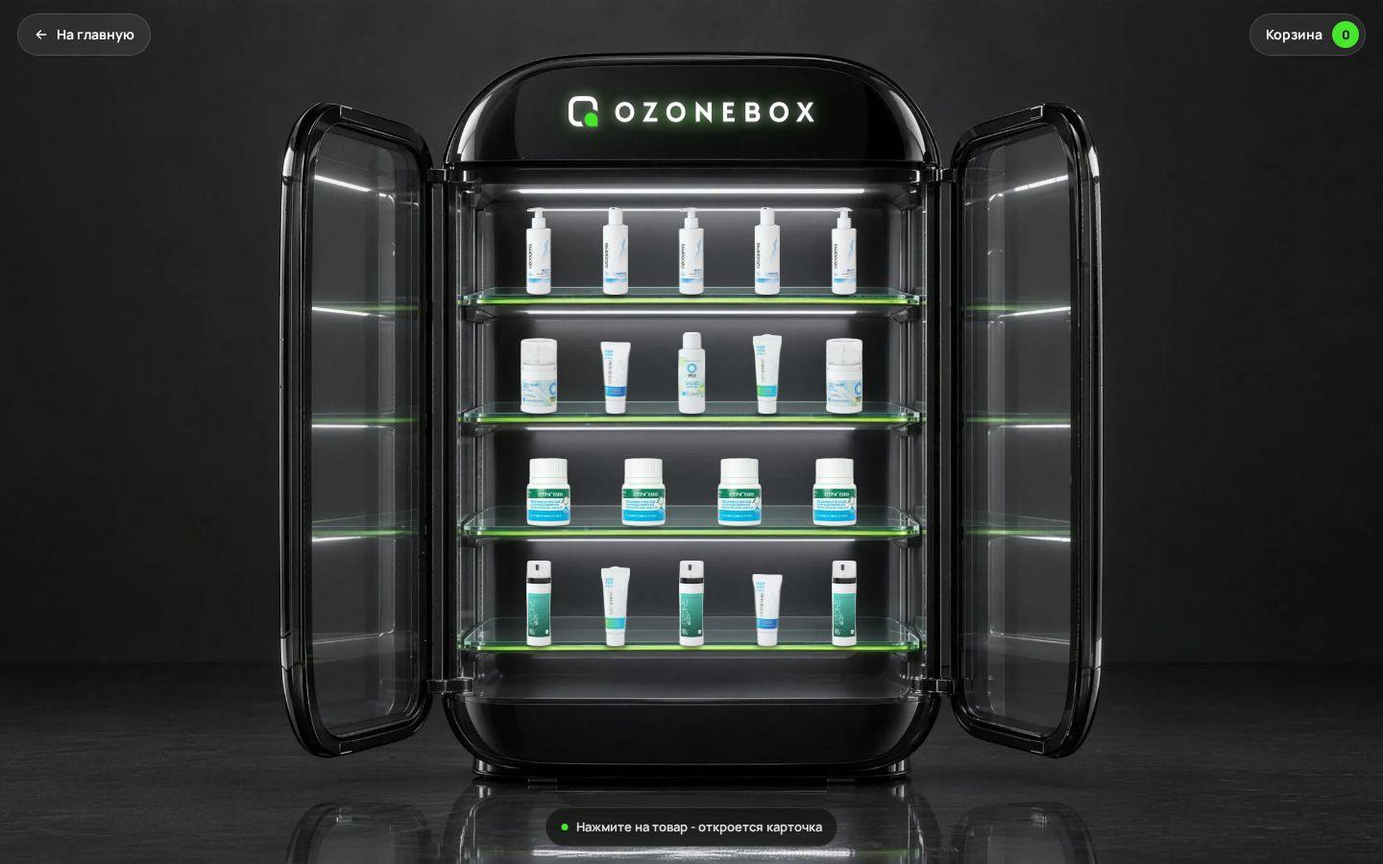
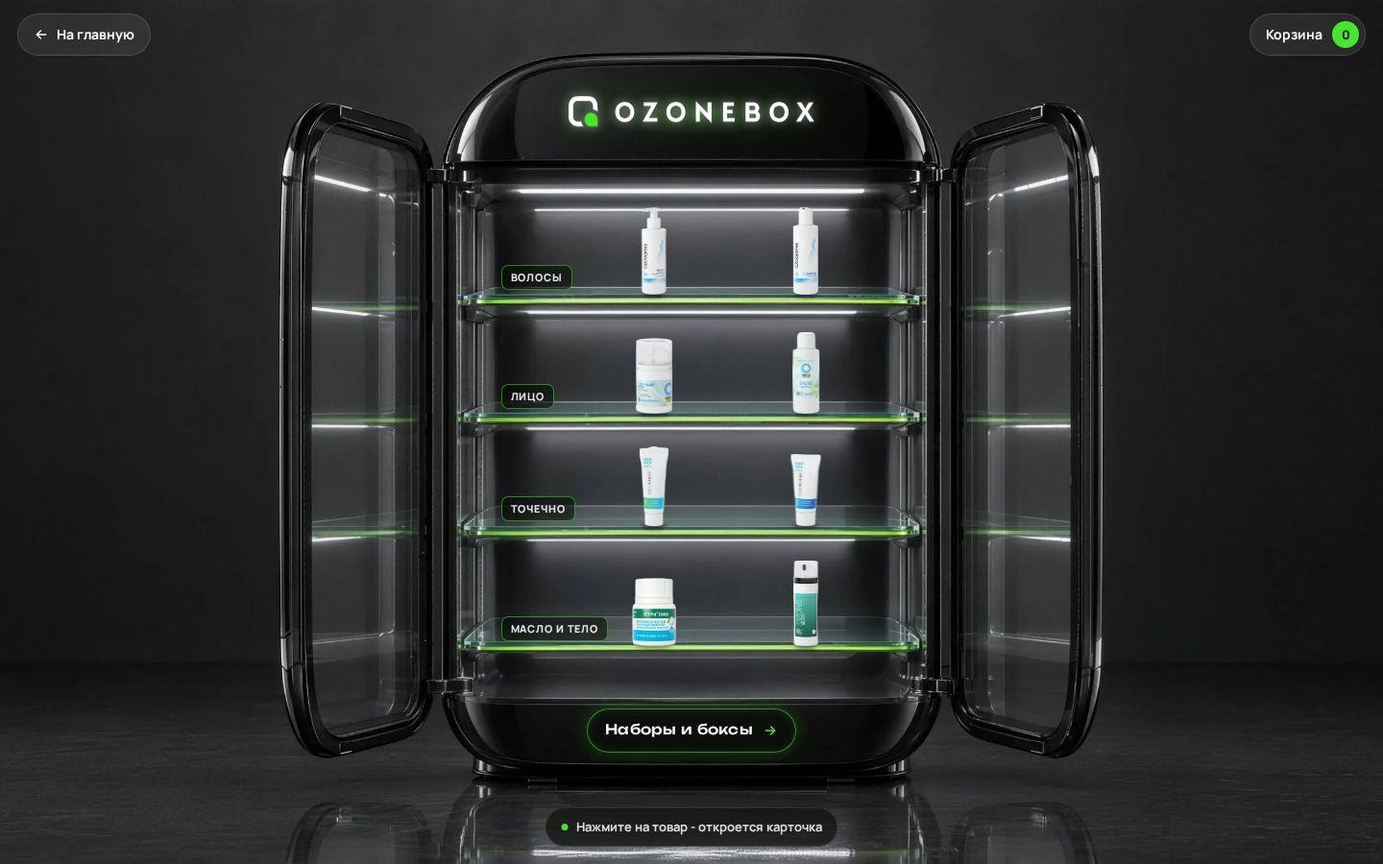
ozonbox: витрина без повторов, подписи полок, ссылка на наборы; карточка показывает фото целиком; кнопки Ozon и WB снова ведут в магазин

diff --git a/ozonbox-future/index.html b/ozonbox-future/index.html
@@ -7,7 +7,7 @@
 <meta name="robots" content="noindex,nofollow">
 <meta name="description" content="Проба OzoneBox Future: товары стоят на полках стеклянного холодильника-витрины, по нажатию открывается карточка.">
 <meta name="theme-color" content="#0b0c0b">
-<link rel="stylesheet" href="shop.css?v=f1">
+<link rel="stylesheet" href="shop.css?v=f2">
 <link rel="preload" as="image" href="img/fridge-16x9.webp" media="(orientation: landscape)" fetchpriority="high">
 <link rel="preload" as="image" href="img/fridge-9x16.webp" media="(orientation: portrait)" fetchpriority="high">
 <style>
@@ -172,6 +172,8 @@ button{font:inherit;color:inherit;background:none;border:0;cursor:pointer}
 .pr__tag{position:absolute;z-index:5;left:50%;bottom:calc(100% + 8px);transform:translate(-50%,6px);white-space:nowrap;padding:7px 12px;border-radius:12px;background:rgba(14,15,13,.82);border:1px solid rgba(70,230,46,.45);font-size:13px;font-weight:700;line-height:1.2;opacity:0;pointer-events:none;transition:opacity .2s,transform .2s var(--ease)}
 .pr--l .pr__tag{left:0;transform:translate(0,6px)}
 .pr--r .pr__tag{left:auto;right:0;transform:translate(0,6px)}
+/* табличка раздела на полке */
+.tagx{position:absolute;left:var(--x);bottom:calc(var(--b) + .6%);padding:4px 9px;border-radius:7px;border:1px solid rgba(70,230,46,.55);background:rgba(10,12,10,.6);color:rgba(255,255,255,.88);font-size:clamp(9px,.75vw,12px);font-weight:800;letter-spacing:.08em;text-transform:uppercase;white-space:nowrap;pointer-events:none;opacity:0}
 .pr__tag b{display:block;color:var(--acid);font-weight:800}
 @media (hover:hover){
   .pr:hover .pr__in{transform:translateY(-6px) scale(1.04)}
@@ -195,6 +197,11 @@ button{font:inherit;color:inherit;background:none;border:0;cursor:pointer}
 .door--l i{right:8%}.door--r i{left:8%}
 @media (orientation:portrait){.doors{perspective:900px}}
 
+/* табличка «Наборы и боксы» на нижней панели холодильника */
+.boxes{position:absolute;left:var(--bx);top:var(--by);transform:translate(-50%,-50%);display:inline-flex;align-items:center;gap:10px;padding:0 18px;height:clamp(36px,3.2vw,46px);border-radius:99px;border:1px solid rgba(70,230,46,.6);background:rgba(10,12,10,.55);color:var(--paper);font-family:Unbounded,Manrope,sans-serif;font-weight:500;font-size:clamp(12px,1vw,15px);letter-spacing:.02em;white-space:nowrap;box-shadow:0 0 18px rgba(70,230,46,.25),inset 0 0 12px rgba(70,230,46,.12);opacity:0;transition:background .25s,color .25s}
+.boxes svg{width:16px;height:16px;color:var(--acid)}
+.boxes:hover{background:var(--acid);color:var(--ink)}
+.boxes:hover svg{color:var(--ink)}
 .hint{position:fixed;z-index:15;left:50%;bottom:calc(18px + env(safe-area-inset-bottom));transform:translateX(-50%);padding:10px 16px;border-radius:99px;background:rgba(14,15,13,.7);border:1px solid rgba(255,255,255,.12);font-size:13px;font-weight:700;color:rgba(255,255,255,.85);white-space:nowrap;opacity:0}
 .hint i{display:inline-block;width:7px;height:7px;border-radius:50%;background:var(--acid);margin-right:8px;vertical-align:1px}
 
@@ -217,11 +224,12 @@ button{font:inherit;color:inherit;background:none;border:0;cursor:pointer}
   <div class="sheen" id="sheen"></div>
   <div class="screen" id="screen"><span class="glow" id="glow"></span><svg class="logo" role="img" aria-label="OzoneBox" xmlns="http://www.w3.org/2000/svg" viewBox="0 0 260 32" fill="none"> <g> <path d="M24.3714 17.6468C27.9454 17.9573 30.6944 21.0721 30.6944 24.811V32H23.7987C20.2123 32 17.2246 29.134 16.9268 25.408C16.5726 20.9777 20.1218 17.2776 24.3714 17.6468Z" fill="#46e62e"></path> <path d="M4.81481 16C4.81481 13.1364 4.81848 11.2875 4.92767 9.87966C5.0324 8.52957 5.21025 8.02811 5.32892 7.78234C5.79335 6.82046 6.54219 6.03976 7.46483 5.55558C7.70057 5.43186 8.18157 5.24644 9.47658 5.13727C10.827 5.02343 12.6005 5.01961 15.3472 5.01961C18.094 5.01961 19.8675 5.02343 21.2179 5.13727C22.5129 5.24644 22.9939 5.43187 23.2296 5.55558C24.1523 6.03976 24.9011 6.82046 25.3655 7.78234C25.4842 8.02811 25.6621 8.52957 25.7668 9.87966C25.8492 10.9432 25.8715 12.2586 25.8775 14.073C27.704 14.4553 29.351 15.3266 30.6944 16.546C30.6944 16.3671 30.6944 16.185 30.6944 16C30.6944 10.4367 30.6944 7.65503 29.6662 5.52547C28.7374 3.60168 27.2397 2.0403 25.3944 1.07194C23.3517 0 20.6835 0 15.3472 0C10.0109 0 7.34271 0 5.30004 1.07194C3.45473 2.0403 1.95706 3.60168 1.02821 5.52547C3.58732e-07 7.65503 2.3348e-07 10.4367 2.22127e-10 16C-2.33036e-07 21.5633 -3.58732e-07 24.345 1.02821 26.4745C1.95706 28.3983 3.45473 29.9597 5.30004 30.9281C7.34271 32 10.0109 32 15.3472 32C15.5247 32 15.6992 32 15.8709 31.9999C14.7013 30.5995 13.8656 28.8824 13.4988 26.9781C11.7584 26.9719 10.4967 26.9487 9.47658 26.8627C8.18157 26.7536 7.70057 26.5682 7.46483 26.4444C6.54219 25.9602 5.79334 25.1795 5.32892 24.2177C5.21025 23.9719 5.0324 23.4704 4.92767 22.1203C4.81848 20.7125 4.81481 18.8636 4.81481 16Z" fill="white"></path> <path d="M69.4856 16.762C69.4856 9.86324 64.6142 6.16431 59.4608 6.16431C54.2233 6.16431 49.3518 9.83388 49.3518 16.762C49.3518 23.6901 54.1106 27.389 59.3763 27.389C65.346 27.389 69.4856 23.0149 69.4856 16.762ZM53.6038 16.762C53.6038 12.4172 56.3633 10.2155 59.4608 10.2155C62.53 10.2155 65.2894 12.3879 65.2894 16.762C65.2894 21.2536 62.5017 23.3672 59.4326 23.3672C56.2789 23.3672 53.6038 21.2536 53.6038 16.762Z" fill="white"></path> <path d="M79.5282 6.48706V10.3328H87.5671L78.248 27.0368L93.9311 27.0366V23.1028H84.9202L94.2471 6.48706H79.5282Z" fill="white"></path> <path d="M123.547 16.762C123.547 9.86324 118.676 6.16431 113.523 6.16431C108.285 6.16431 103.413 9.83388 103.413 16.762C103.413 23.6901 108.172 27.389 113.438 27.389C119.407 27.389 123.547 23.0149 123.547 16.762ZM107.665 16.762C107.665 12.4172 110.425 10.2155 113.523 10.2155C116.592 10.2155 119.352 12.3879 119.352 16.762C119.352 21.2536 116.564 23.3672 113.494 23.3672C110.341 23.3672 107.665 21.2536 107.665 16.762Z" fill="white"></path> <path d="M151.222 28.3713V6.48726H146.998V18.1418L134.608 5.01953V27.0368H138.804V15.2942L151.222 28.3713Z" fill="white"></path> <path d="M174.825 6.48706H163.385V27.0366H175.691V23.0441H167.638V18.3471H173.369V14.5014H167.638V10.3328H174.825V6.48706Z" fill="white"></path> <path d="M201.689 12.5934C201.689 8.74769 199.098 6.5166 195.494 6.5166H187.131V27.0368H196.282C200.225 27.0368 202.533 24.5709 202.533 20.96C202.533 18.8463 201.548 17.173 199.718 16.3804C200.956 15.5878 201.689 14.0906 201.689 12.5934ZM195.184 10.2743C196.648 10.2743 197.578 11.243 197.549 12.7402C197.521 14.12 196.62 14.942 195.184 14.942H191.326V10.2743H195.184ZM195.803 18.5234C196.451 18.5234 197.014 18.5822 197.493 18.9344C198.084 19.3748 198.394 20.1381 198.366 20.96C198.282 22.3398 197.437 23.2205 196.001 23.2205H191.326V18.5234H195.803Z" fill="white"></path> <path d="M232.66 16.762C232.66 9.86324 227.788 6.16431 222.635 6.16431C217.398 6.16431 212.527 9.83388 212.527 16.762C212.527 23.6901 217.285 27.389 222.551 27.389C228.521 27.389 232.66 23.0149 232.66 16.762ZM216.779 16.762C216.779 12.4172 219.538 10.2155 222.635 10.2155C225.705 10.2155 228.464 12.3879 228.464 16.762C228.464 21.2536 225.676 23.3672 222.608 23.3672C219.453 23.3672 216.779 21.2536 216.779 16.762Z" fill="white"></path> <path d="M250.186 13.5619L248.384 9.86306L246.328 6.48706H241.219L247.708 16.1747L240.481 27.0368L245.54 27.0366L247.989 23.1909L250.158 19.2278H250.298L252.41 23.0735L254.973 27.0366L260 27.0368L252.777 16.1747L259.174 6.48706H254.156L252.213 9.68687L250.298 13.5619H250.186Z" fill="white"></path> </g> </svg></div>
   <div class="shelves" id="shelves" role="group" aria-label="Товары на полках" inert></div>
+  <a class="boxes" id="boxes" href="/ozonbox-glavnaya-11/#sets"><span>Наборы и боксы</span><svg viewBox="0 0 24 24" fill="none" stroke="currentColor" stroke-width="2.2" stroke-linecap="round"><path d="M5 12h14M13 6l6 6-6 6"/></svg></a>
   <div class="doors" id="doors" aria-hidden="true"><div class="door door--l" id="doorL"><i></i></div><div class="door door--r" id="doorR"><i></i></div></div>
 </main>
 <p class="hint" id="hint" aria-hidden="true"><i></i>Нажмите на товар - откроется карточка</p>
 
-<script src="shop.js?v=f1"></script>
+<script src="shop.js?v=f2"></script>
 <script>
 // Витрина OzoneBox Future. Фон - картинка пустого холодильника (Higgsfield), товары - настоящие вырезки
 // поверх неё: надписи на упаковке нейросеть не рисует. Координаты полок - доли картинки в процентах.
@@ -233,15 +241,12 @@ button{font:inherit;color:inherit;background:none;border:0;cursor:pointer}
   // относительная высота упаковки: флакон маски самый высокий, банка масла самая низкая
   const K = { "maska-volosy": .92, "shampun": .92, "anticellulit": .9, "ochischenie": .86, "ozodermik-3": .84, "ozodermik-5": .76, "dnevnoy-krem": .8, "otri-6000": .72 };
   const L = {
-    wide: { screen: [50, 13.2, 16], inner: [35.6, 20.5, 28.8, 59], doors: [35.4, 20, 29.2, 60.5], x: [37.6, 62.4], h: 11,
-      shelves: [[34.1, ["maska-volosy", "shampun", "maska-volosy", "shampun", "maska-volosy"]],
-                [47.9, ["dnevnoy-krem", "ozodermik-5", "ochischenie", "ozodermik-3", "dnevnoy-krem"]],
-                [60.9, ["otri-6000", "otri-6000", "otri-6000", "otri-6000"]],
-                [74.8, ["anticellulit", "ozodermik-3", "anticellulit", "ozodermik-5", "anticellulit"]]] },
-    tall: { screen: [50, 17.2, 40], inner: [21, 21.5, 58, 50.5], doors: [20.6, 21.2, 58.8, 51], x: [27.5, 72.5], h: 8.8,
-      shelves: [[32.8, ["maska-volosy", "shampun", "maska-volosy"]], [42.7, ["dnevnoy-krem", "ozodermik-5", "dnevnoy-krem"]],
-                [52.7, ["otri-6000", "otri-6000", "otri-6000"]], [61.8, ["ochischenie", "ozodermik-3", "ochischenie"]],
-                [71.5, ["anticellulit", "ozodermik-5", "anticellulit"]]] },
+    wide: { boxes: [50, 84.5], screen: [50, 13.2, 16], inner: [35.6, 20.5, 28.8, 59], doors: [35.4, 20, 29.2, 60.5], x: [37.6, 62.4], lab: 5, h: 11,
+      shelves: [[34.1, ["maska-volosy", "shampun"], "Волосы"], [47.9, ["dnevnoy-krem", "ochischenie"], "Лицо"],
+                [60.9, ["ozodermik-3", "ozodermik-5"], "Точечно"], [74.8, ["otri-6000", "anticellulit"], "Масло и тело"]] },
+    tall: { boxes: [50, 78.6], screen: [50, 17.2, 40], inner: [21, 21.5, 58, 50.5], doors: [20.6, 21.2, 58.8, 51], x: [24.5, 74.5], lab: 15, h: 8.8,
+      shelves: [[32.8, ["maska-volosy", "shampun"], "Волосы"], [42.7, ["dnevnoy-krem", "ochischenie"], "Лицо"],
+                [52.7, ["ozodermik-3", "ozodermik-5"], "Точечно"], [61.8, ["otri-6000"], "Масло"], [71.5, ["anticellulit"], "Тело"]] },
   };
   const stage = $("#stage"), shelves = $("#shelves");
   const setBox = (el, p, [x, y, w, h]) => { el.style.setProperty(p + "x", x + "%"); el.style.setProperty(p + "y", y + "%"); el.style.setProperty(p + "w", w + "%"); el.style.setProperty(p + "h", h + "%"); };
@@ -249,10 +254,11 @@ button{font:inherit;color:inherit;background:none;border:0;cursor:pointer}
   const render = () => {
     const c = port.matches ? L.tall : L.wide;
     const s = $("#screen"); s.style.setProperty("--sx", c.screen[0] + "%"); s.style.setProperty("--sy", c.screen[1] + "%"); s.style.setProperty("--sw", c.screen[2] + "%");
+    const bx = $("#boxes"); bx.style.setProperty("--bx", c.boxes[0] + "%"); bx.style.setProperty("--by", c.boxes[1] + "%");
     setBox($("#light"), "--i", c.inner); setBox($("#sheen"), "--i", c.inner); setBox($("#doors"), "--d", c.doors);
     const [x0, x1] = c.x;
-    shelves.innerHTML = c.shelves.map(([base, ids]) => ids.map((id, i) => {
-      const p = byId[id], x = x0 + (i + .5) * (x1 - x0) / ids.length;
+    shelves.innerHTML = c.shelves.map(([base, ids, tag]) => `<span class="tagx" style="--x:${x0}%;--b:${(100 - base).toFixed(2)}%">${tag}</span>` + ids.map((id, i) => {
+      const p = byId[id], a0 = x0 + c.lab, x = ids.length === 1 ? (a0 + x1) / 2 : a0 + (x1 - a0) * (i + .5) / ids.length;
       return `<button class="pr${x < x0 + 6 ? " pr--l" : x > x1 - 6 ? " pr--r" : ""}" type="button" data-id="${id}" style="--x:${x.toFixed(2)}%;--b:${(100 - base).toFixed(2)}%;--h:${(c.h * K[id]).toFixed(2)}%" aria-label="${p[1]}, ${rub(p[2])}"><span class="pr__in"><img src="img/cut/${id}.webp" alt="" draggable="false"><span class="pr__tag">${p[1]}<b>${rub(p[2])}</b></span></span></button>`;
     }).join("")).join("");
     items = [...shelves.querySelectorAll(".pr")];
@@ -261,10 +267,10 @@ button{font:inherit;color:inherit;background:none;border:0;cursor:pointer}
 
   // открытие сцены: экран разгорается, двери распахиваются, товары встают по полкам сверху вниз
   const show = (el) => (el.style.opacity = 1);
-  const finale = () => { shelves.inert = false; items.forEach(show); show($("#screen")); $("#glow").style.opacity = .7; $("#doors").style.display = "none"; show($("#hint")); };
+  const finale = () => { show($("#boxes")); shelves.inert = false; items.forEach(show); shelves.querySelectorAll(".tagx").forEach(show); show($("#screen")); $("#glow").style.opacity = .7; $("#doors").style.display = "none"; show($("#hint")); };
   let run = [];
   const play = () => {
-    if (reduce) { [...items, $("#screen"), $("#hint")].forEach((e) => e.animate([{ opacity: 0 }, { opacity: 1 }], { duration: 250, fill: "forwards" })); $("#doors").style.display = "none"; $("#glow").style.opacity = .7; shelves.inert = false; return; }
+    if (reduce) { [...items, ...shelves.querySelectorAll(".tagx"), $("#screen"), $("#hint"), $("#boxes")].forEach((e) => e.animate([{ opacity: 0 }, { opacity: 1 }], { duration: 250, fill: "forwards" })); $("#doors").style.display = "none"; $("#glow").style.opacity = .7; shelves.inert = false; return; }
     const A = (el, kf, o) => { const a = el.animate(kf, { fill: "both", ...o }); run.push(a); return a; };
     A($("#screen"), [{ opacity: 0, transform: "translate(-50%,-50%) scale(.985)" }, { opacity: .9, offset: .12 }, { opacity: .25, offset: .22 }, { opacity: 1, offset: .4 }, { opacity: .6, offset: .55 }, { opacity: 1, transform: "translate(-50%,-50%) scale(1)" }], { duration: 750, delay: 150 });
     A($("#glow"), [{ opacity: 0 }, { opacity: .7 }], { duration: 900, delay: 300, easing: "cubic-bezier(.3,0,.2,1)" });
@@ -272,9 +278,11 @@ button{font:inherit;color:inherit;background:none;border:0;cursor:pointer}
     A(dl, [{ transform: "rotateY(0)" }, { transform: "rotateY(-1.5deg)" }, { transform: "rotateY(0)" }], { duration: 120, delay: 700, easing: "cubic-bezier(.4,0,.6,1)", fill: "none" });
     A(dl, [{ transform: "rotateY(0)", opacity: 1 }, { opacity: 1, offset: .85 }, { transform: `rotateY(-${ang}deg)`, opacity: 0 }], { duration: 1080, delay: 820, easing: "cubic-bezier(.7,0,.2,1)" });
     A(dr, [{ transform: "rotateY(0)", opacity: 1 }, { opacity: 1, offset: .85 }, { transform: `rotateY(${ang}deg)`, opacity: 0 }], { duration: 1080, delay: 845, easing: "cubic-bezier(.7,0,.2,1)" }).finished.then(() => ($("#doors").style.display = "none")).catch(() => {});
+    shelves.querySelectorAll(".tagx").forEach((el, i) => A(el, [{ opacity: 0 }, { opacity: 1 }], { duration: 400, delay: 1200 + i * 120 }));
     items.forEach((el, i) => A(el, [{ opacity: 0, transform: "translateX(-50%) translateY(14px) scale(.96)" }, { opacity: 1, offset: .6 }, { opacity: 1, transform: "translateX(-50%) translateY(0) scale(1)" }],
       { duration: 520, delay: 1250 + i * 70 + Math.round(Math.random() * 40 - 20), easing: "cubic-bezier(.22,1,.36,1)" }));
     setTimeout(() => (shelves.inert = false), 1300);
+    A($("#boxes"), [{ opacity: 0 }, { opacity: 1 }], { duration: 500, delay: 2100 });
     A($("#hint"), [{ opacity: 0, transform: "translate(-50%,8px)" }, { opacity: 1, transform: "translate(-50%,0)" }], { duration: 400, delay: 2300, easing: "cubic-bezier(.2,.8,.2,1)" });
     // нажатие во время заставки - сразу к концу
     addEventListener("pointerdown", () => run.forEach((a) => { try { a.finish(); } catch (e) {} }), { once: true });

diff --git a/ozonbox-glavnaya-11/index.html b/ozonbox-glavnaya-11/index.html
@@ -6,7 +6,7 @@
 <title>OzoneBox - главная 11</title>
 <meta name="robots" content="noindex,nofollow">
 <meta name="description" content="Главная OzoneBox, шаг 11: заголовки первого экрана без наложения строк, плитка «Антицеллюлитный крем» без переноса, банка в осенней коробке откликается на нажатие.">
-<link rel="stylesheet" href="shop.css?v=11">
+<link rel="stylesheet" href="shop.css?v=11d">
 <link rel="preload" href="fonts/Manrope-cyrillic-ffb0f3.woff2" as="font" type="font/woff2" crossorigin>
 <style>
 /* шрифты лежат рядом со страницей: без запроса к Google, быстрее первый экран */
@@ -506,7 +506,7 @@ footer{background:var(--ink);color:var(--paper);margin-top:40px;padding:56px 0 2
 
 <div class="dock" id="dock" role="status"><span>В корзине <b id="dockN">0</b></span><button class="btn btn--acid btn--sm press" type="button" data-cart>Оформить</button></div>
 
-<script src="shop.js?v=11c"></script>
+<script src="shop.js?v=11d"></script>
 <script>
 // Без GSAP и Lenis: вся анимация на CSS transition и transform, JS только переключает классы.
 // Так страница легче (минус ~150 КБ скриптов) и отклик сразу, без задержки плавной прокрутки.
@@ -605,6 +605,8 @@ footer{background:var(--ink);color:var(--paper);margin-top:40px;padding:56px 0 2
   };
   chips.addEventListener("click", (e) => { const b = e.target.closest(".chip"); if (b) setCat(b.dataset.cat); });
   document.addEventListener("click", (e) => { const a = e.target.closest("[data-go]"); if (a) setCat(a.dataset.go); });
+  // ссылка «/ozonbox-glavnaya-11/#sets» (например, из витрины Future) открывает каталог сразу на наборах
+  if (location.hash === "#sets") { setCat("sets"); setTimeout(() => document.getElementById("catalog")?.scrollIntoView(), 50); }
 
   // появление блоков: один IntersectionObserver на всё
   const io = new IntersectionObserver((es) => es.forEach((en) => { if (en.isIntersecting) { en.target.classList.add("in"); io.unobserve(en.target); } }), { rootMargin: "0px 0px -8% 0px" });

diff --git a/ozonbox-future/shop.css b/ozonbox-future/shop.css
@@ -6,7 +6,7 @@
 .pd{position:fixed;z-index:95;left:50%;top:50%;width:min(980px,calc(100% - 32px));max-height:min(88vh,720px);overflow:auto;background:var(--paper);border-radius:var(--r);display:grid;grid-template-columns:1.05fr 1fr;opacity:0;pointer-events:none;transform:translate(-50%,-48%) scale(.97);transition:opacity .22s var(--ease),transform .3s var(--ease)}
 .pd.on{opacity:1;pointer-events:auto;transform:translate(-50%,-50%)}
 .pd__img{background:var(--mist);position:relative;min-height:420px}
-.pd__img img{position:absolute;inset:0;width:100%;height:100%;object-fit:cover}
+.pd__img img{position:absolute;inset:0;width:100%;height:100%;object-fit:contain;padding:4%}
 .pd__body{padding:32px;display:flex;flex-direction:column;gap:16px}
 .pd__x{position:absolute;right:14px;top:14px;z-index:2;width:42px;height:42px;border-radius:50%;background:var(--paper);display:grid;place-items:center;box-shadow:0 2px 10px rgba(14,15,13,.08)}
 .pd__x svg{width:18px;height:18px}
@@ -27,7 +27,7 @@
 .mini{display:flex;gap:8px;overflow-x:auto;scrollbar-width:none}
 .mini::-webkit-scrollbar{display:none}
 .mini button{flex:0 0 132px;text-align:left;background:var(--mist);border-radius:14px;padding:8px;font-size:12px;font-weight:700;line-height:1.2;display:flex;flex-direction:column;gap:6px}
-.mini img{width:100%;aspect-ratio:1;object-fit:cover;border-radius:10px}
+.mini img{width:100%;aspect-ratio:1;object-fit:contain;border-radius:10px}
 .mini span{color:var(--mute);font-weight:600}
 
 /* корзина */
@@ -182,7 +182,7 @@
   .pd.on{transform:none}
   .pd{display:block}
   .pd__img{min-height:0}
-  .pd__img img{position:static;width:100%;height:auto;aspect-ratio:1.1;object-fit:cover}
+  .pd__img img{position:static;width:100%;height:auto;aspect-ratio:1.1;object-fit:contain;padding:3%}
   .pd__body{padding:22px 18px 28px}
   .cd{top:auto;height:92vh;width:100%;border-radius:var(--r) var(--r) 0 0;transform:translateY(100%)}
 }

diff --git a/ozonbox-glavnaya-11/shop.css b/ozonbox-glavnaya-11/shop.css
@@ -6,7 +6,7 @@
 .pd{position:fixed;z-index:95;left:50%;top:50%;width:min(980px,calc(100% - 32px));max-height:min(88vh,720px);overflow:auto;background:var(--paper);border-radius:var(--r);display:grid;grid-template-columns:1.05fr 1fr;opacity:0;pointer-events:none;transform:translate(-50%,-48%) scale(.97);transition:opacity .22s var(--ease),transform .3s var(--ease)}
 .pd.on{opacity:1;pointer-events:auto;transform:translate(-50%,-50%)}
 .pd__img{background:var(--mist);position:relative;min-height:420px}
-.pd__img img{position:absolute;inset:0;width:100%;height:100%;object-fit:cover}
+.pd__img img{position:absolute;inset:0;width:100%;height:100%;object-fit:contain;padding:4%}
 .pd__body{padding:32px;display:flex;flex-direction:column;gap:16px}
 .pd__x{position:absolute;right:14px;top:14px;z-index:2;width:42px;height:42px;border-radius:50%;background:var(--paper);display:grid;place-items:center;box-shadow:0 2px 10px rgba(14,15,13,.08)}
 .pd__x svg{width:18px;height:18px}
@@ -27,7 +27,7 @@
 .mini{display:flex;gap:8px;overflow-x:auto;scrollbar-width:none}
 .mini::-webkit-scrollbar{display:none}
 .mini button{flex:0 0 132px;text-align:left;background:var(--mist);border-radius:14px;padding:8px;font-size:12px;font-weight:700;line-height:1.2;display:flex;flex-direction:column;gap:6px}
-.mini img{width:100%;aspect-ratio:1;object-fit:cover;border-radius:10px}
+.mini img{width:100%;aspect-ratio:1;object-fit:contain;border-radius:10px}
 .mini span{color:var(--mute);font-weight:600}
 
 /* корзина */
@@ -182,7 +182,7 @@
   .pd.on{transform:none}
   .pd{display:block}
   .pd__img{min-height:0}
-  .pd__img img{position:static;width:100%;height:auto;aspect-ratio:1.1;object-fit:cover}
+  .pd__img img{position:static;width:100%;height:auto;aspect-ratio:1.1;object-fit:contain;padding:3%}
   .pd__body{padding:22px 18px 28px}
   .cd{top:auto;height:92vh;width:100%;border-radius:var(--r) var(--r) 0 0;transform:translateY(100%)}
 }

diff --git a/ozonbox-sos-2/shop.css b/ozonbox-sos-2/shop.css
@@ -6,7 +6,7 @@
 .pd{position:fixed;z-index:95;left:50%;top:50%;width:min(980px,calc(100% - 32px));max-height:min(88vh,720px);overflow:auto;background:var(--paper);border-radius:var(--r);display:grid;grid-template-columns:1.05fr 1fr;opacity:0;pointer-events:none;transform:translate(-50%,-48%) scale(.97);transition:opacity .22s var(--ease),transform .3s var(--ease)}
 .pd.on{opacity:1;pointer-events:auto;transform:translate(-50%,-50%)}
 .pd__img{background:var(--mist);position:relative;min-height:420px}
-.pd__img img{position:absolute;inset:0;width:100%;height:100%;object-fit:cover}
+.pd__img img{position:absolute;inset:0;width:100%;height:100%;object-fit:contain;padding:4%}
 .pd__body{padding:32px;display:flex;flex-direction:column;gap:16px}
 .pd__x{position:absolute;right:14px;top:14px;z-index:2;width:42px;height:42px;border-radius:50%;background:var(--paper);display:grid;place-items:center;box-shadow:0 2px 10px rgba(14,15,13,.08)}
 .pd__x svg{width:18px;height:18px}
@@ -27,7 +27,7 @@
 .mini{display:flex;gap:8px;overflow-x:auto;scrollbar-width:none}
 .mini::-webkit-scrollbar{display:none}
 .mini button{flex:0 0 132px;text-align:left;background:var(--mist);border-radius:14px;padding:8px;font-size:12px;font-weight:700;line-height:1.2;display:flex;flex-direction:column;gap:6px}
-.mini img{width:100%;aspect-ratio:1;object-fit:cover;border-radius:10px}
+.mini img{width:100%;aspect-ratio:1;object-fit:contain;border-radius:10px}
 .mini span{color:var(--mute);font-weight:600}
 
 /* корзина */
@@ -182,7 +182,7 @@
   .pd.on{transform:none}
   .pd{display:block}
   .pd__img{min-height:0}
-  .pd__img img{position:static;width:100%;height:auto;aspect-ratio:1.1;object-fit:cover}
+  .pd__img img{position:static;width:100%;height:auto;aspect-ratio:1.1;object-fit:contain;padding:3%}
   .pd__body{padding:22px 18px 28px}
   .cd{top:auto;height:92vh;width:100%;border-radius:var(--r) var(--r) 0 0;transform:translateY(100%)}
 }

diff --git a/ozonbox-future/shop.js b/ozonbox-future/shop.js
@@ -48,9 +48,9 @@
   // ссылки на карточку товара на маркетплейсе, один в один. Заполнить по артикулам от Рафаэля (ВОПРОСЫ.md, 1.19):
   // "dnevnoy-krem": { ozon: "https://www.ozon.ru/product/...", wb: "https://www.wildberries.ru/catalog/АРТИКУЛ/detail.aspx" }
   const MPL = {};
-  // пока ссылки нет - поиск этого товара на площадке, а не главная страница магазина
-  const mpUrl = (id, m) => MPL[id]?.[m] || (m === "ozon" ? "https://www.ozon.ru/search/?text=" : "https://www.wildberries.ru/catalog/0/search.aspx?search=")
-    + encodeURIComponent("OzoneBox " + (byId[id] ? byId[id][1] : "").replace(/[«»"]/g, ""));
+  // пока ссылки на карточку нет - магазин продавца целиком (поиск по площадке выдавал чужие товары)
+  const STORE = { ozon: "https://www.ozon.ru/seller/ip-salmanov-rafael-hazranovich/", wb: "https://www.wildberries.ru/seller/91509" };
+  const mpUrl = (id, m) => MPL[id]?.[m] || STORE[m];
   const rub = (n) => n.toLocaleString("ru-RU") + " ₽";
   const esc = (s) => String(s).replace(/[&<>"]/g, (c) => ({ "&": "&amp;", "<": "&lt;", ">": "&gt;", '"': "&quot;" })[c]);
   const img = (id) => (window.OZB_IMG || "img/") + id + ".webp";

diff --git a/ozonbox-glavnaya-11/shop.js b/ozonbox-glavnaya-11/shop.js
@@ -48,9 +48,9 @@
   // ссылки на карточку товара на маркетплейсе, один в один. Заполнить по артикулам от Рафаэля (ВОПРОСЫ.md, 1.19):
   // "dnevnoy-krem": { ozon: "https://www.ozon.ru/product/...", wb: "https://www.wildberries.ru/catalog/АРТИКУЛ/detail.aspx" }
   const MPL = {};
-  // пока ссылки нет - поиск этого товара на площадке, а не главная страница магазина
-  const mpUrl = (id, m) => MPL[id]?.[m] || (m === "ozon" ? "https://www.ozon.ru/search/?text=" : "https://www.wildberries.ru/catalog/0/search.aspx?search=")
-    + encodeURIComponent("OzoneBox " + (byId[id] ? byId[id][1] : "").replace(/[«»"]/g, ""));
+  // пока ссылки на карточку нет - магазин продавца целиком (поиск по площадке выдавал чужие товары)
+  const STORE = { ozon: "https://www.ozon.ru/seller/ip-salmanov-rafael-hazranovich/", wb: "https://www.wildberries.ru/seller/91509" };
+  const mpUrl = (id, m) => MPL[id]?.[m] || STORE[m];
   const rub = (n) => n.toLocaleString("ru-RU") + " ₽";
   const esc = (s) => String(s).replace(/[&<>"]/g, (c) => ({ "&": "&amp;", "<": "&lt;", ">": "&gt;", '"': "&quot;" })[c]);
   const img = (id) => (window.OZB_IMG || "img/") + id + ".webp";

diff --git a/ozonbox-sos-2/shop.js b/ozonbox-sos-2/shop.js
@@ -48,9 +48,9 @@
   // ссылки на карточку товара на маркетплейсе, один в один. Заполнить по артикулам от Рафаэля (ВОПРОСЫ.md, 1.19):
   // "dnevnoy-krem": { ozon: "https://www.ozon.ru/product/...", wb: "https://www.wildberries.ru/catalog/АРТИКУЛ/detail.aspx" }
   const MPL = {};
-  // пока ссылки нет - поиск этого товара на площадке, а не главная страница магазина
-  const mpUrl = (id, m) => MPL[id]?.[m] || (m === "ozon" ? "https://www.ozon.ru/search/?text=" : "https://www.wildberries.ru/catalog/0/search.aspx?search=")
-    + encodeURIComponent("OzoneBox " + (byId[id] ? byId[id][1] : "").replace(/[«»"]/g, ""));
+  // пока ссылки на карточку нет - магазин продавца целиком (поиск по площадке выдавал чужие товары)
+  const STORE = { ozon: "https://www.ozon.ru/seller/ip-salmanov-rafael-hazranovich/", wb: "https://www.wildberries.ru/seller/91509" };
+  const mpUrl = (id, m) => MPL[id]?.[m] || STORE[m];
   const rub = (n) => n.toLocaleString("ru-RU") + " ₽";
   const esc = (s) => String(s).replace(/[&<>"]/g, (c) => ({ "&": "&amp;", "<": "&lt;", ">": "&gt;", '"': "&quot;" })[c]);
   const img = (id) => (window.OZB_IMG || "img/") + id + ".webp";

diff --git a/ozonbox-sos-2/index.html b/ozonbox-sos-2/index.html
@@ -6,7 +6,7 @@
 <title>OzoneBox - SOS бокс</title>
 <meta name="robots" content="noindex,nofollow">
 <meta name="description" content="Страница набора «SOS бокс» OzoneBox: маска для волос и крем Озодермик 5% в одной коробке.">
-<link rel="stylesheet" href="shop.css?v=11">
+<link rel="stylesheet" href="shop.css?v=11d">
 <style>
 /* шрифты лежат рядом со страницей: без запроса к Google, быстрее первый экран */
 @font-face {
@@ -268,7 +268,7 @@ footer a{color:var(--paper);font-weight:700}
   </section>
 </main>
 <footer><div class="wrap"><span>Макет страницы набора, 14.10.2026 · цены из каталога Tilda, сентябрь 2026</span><a href="/ozonbox-glavnaya-10/">← На главную</a></div></footer>
-<script src="shop.js?v=11c"></script>
+<script src="shop.js?v=11d"></script>
 <script>
 (() => {
   const { byId, rub } = OZB;
